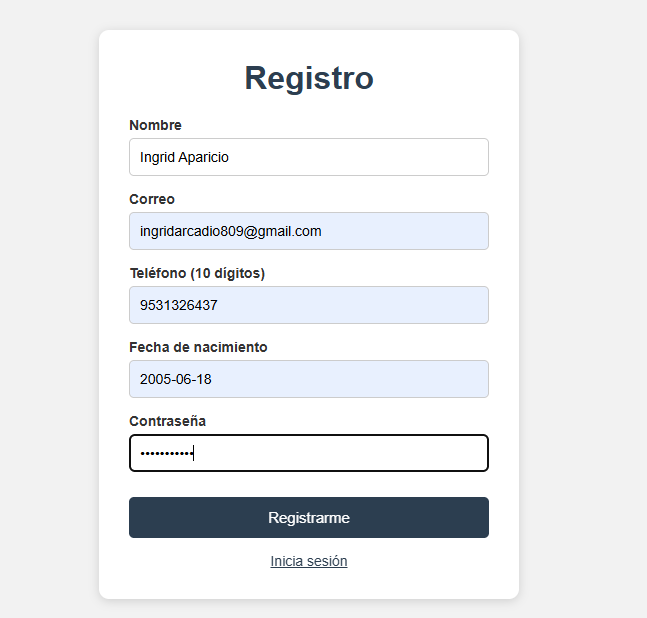
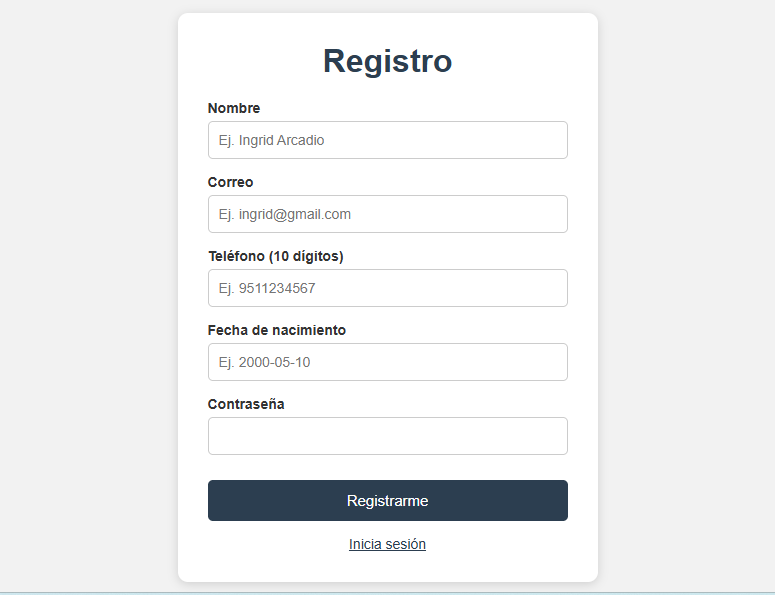
Modificacion

Changed region(s): [[0.1855, 0.1513, 0.7728, 0.9378], [0.0, 0.9681, 1.0, 1.0], [0.3709, 0.0605, 0.5873, 0.1513]]

diff --git a/index.html b/index.html
@@ -59,55 +59,6 @@
   </div>
 
   <script src="js/utileria.js"></script>
-<script>
-  var form = document.getElementById("formRegistro");
-  var overlayModal = document.getElementById("overlayModal");
-
-  form.addEventListener("submit", function (e) {
-    e.preventDefault();
-
-    var nombre = document.getElementById("nombre").value;
-    var correo = document.getElementById("correo").value;
-    var telefono = document.getElementById("telefono").value;
-    var fechaNacimiento = document.getElementById("fechaNacimiento").value;
-    var password = document.getElementById("password").value;
-
-    var campos = [
-      { valido: soloLetras(nombre), error: "errorNombre", mensaje: "Solo se permiten letras." },
-      { valido: validarCorreo(correo), error: "errorCorreo", mensaje: "Correo no válido." },
-      { valido: validarTelefono(telefono), error: "errorTelefono", mensaje: "Teléfono no válido (10 dígitos)." },
-      { valido: esMayorDeEdad(fechaNacimiento), error: "errorFecha", mensaje: "Debes ser mayor de edad." },
-      { valido: validarPassword(password), error: "errorPassword", mensaje: "Contraseña no válida." }
-    ];
-
-    var formularioValido = true;
-
-    for (var i = 0; i < campos.length; i++) {
-      var campo = campos[i];
-      if (campo.valido) {
-        document.getElementById(campo.error).textContent = "";
-      } else {
-        document.getElementById(campo.error).textContent = campo.mensaje;
-        formularioValido = false;
-      }
-    }
-
-    if (!formularioValido) return;
-
-    var nombreCapitalizado = capitalizarTexto(nombre);
-    var edad = calcularEdad(fechaNacimiento);
-
-    console.log("Registro exitoso:", nombreCapitalizado, edad);
-
-    document.getElementById("textoEdad").textContent = "Hola " + nombreCapitalizado + ", tu edad es: " + edad + " años.";
-    overlayModal.classList.add("activo");
-  });
-
-  document.getElementById("cerrarModal").addEventListener("click", function () {
-    overlayModal.classList.remove("activo");
-    form.reset();
-  });
-</script>
 
 </body>
 </html>

diff --git a/login.html b/login.html
@@ -33,37 +33,6 @@
   </div>
 
   <script src="js/utileria.js"></script>
-  <script>
-    var form = document.getElementById("formLogin");
-
-    form.addEventListener("submit", function (e) {
-      e.preventDefault();
-
-      var correo = document.getElementById("correo").value;
-      var password = document.getElementById("password").value;
-
-      document.getElementById("errorCorreo").textContent = "";
-      document.getElementById("errorPassword").textContent = "";
-
-      var valido = true;
-
-      if (!validarCorreo(correo)) {
-        document.getElementById("errorCorreo").textContent = "Correo no válido.";
-        valido = false;
-      }
-
-      if (!validarPassword(password)) {
-        document.getElementById("errorPassword").textContent = "Contraseña no válida.";
-        valido = false;
-      }
-
-      if (valido) {
-        console.log("Inicio de sesión correcto");
-        console.log("Correo:", correo);
-        alert("Bienvenido, inicio de sesión correcto.");
-      }
-    });
-  </script>
 
 </body>
 </html>

diff --git a/README.md b/README.md
@@ -88,13 +88,13 @@ capitalizarTexto("MARÍA lópez"); // "María López"
 
 ## Capturas de pantalla
 
-**Registro exitoso (formulario + consola + modal):**
+**Registro (formulario + consola + modal):**
 
-![Captura de registro](img/ima3.png)
+![Captura de registro](img/ima2.png)
 
-**Login exitoso (formulario + consola):**
+**Login (formulario + consola):**
 
-![Captura de login](img/ima5.png)
+![Captura de login](img/ima1.png)
 
 ## Sitio web
 
